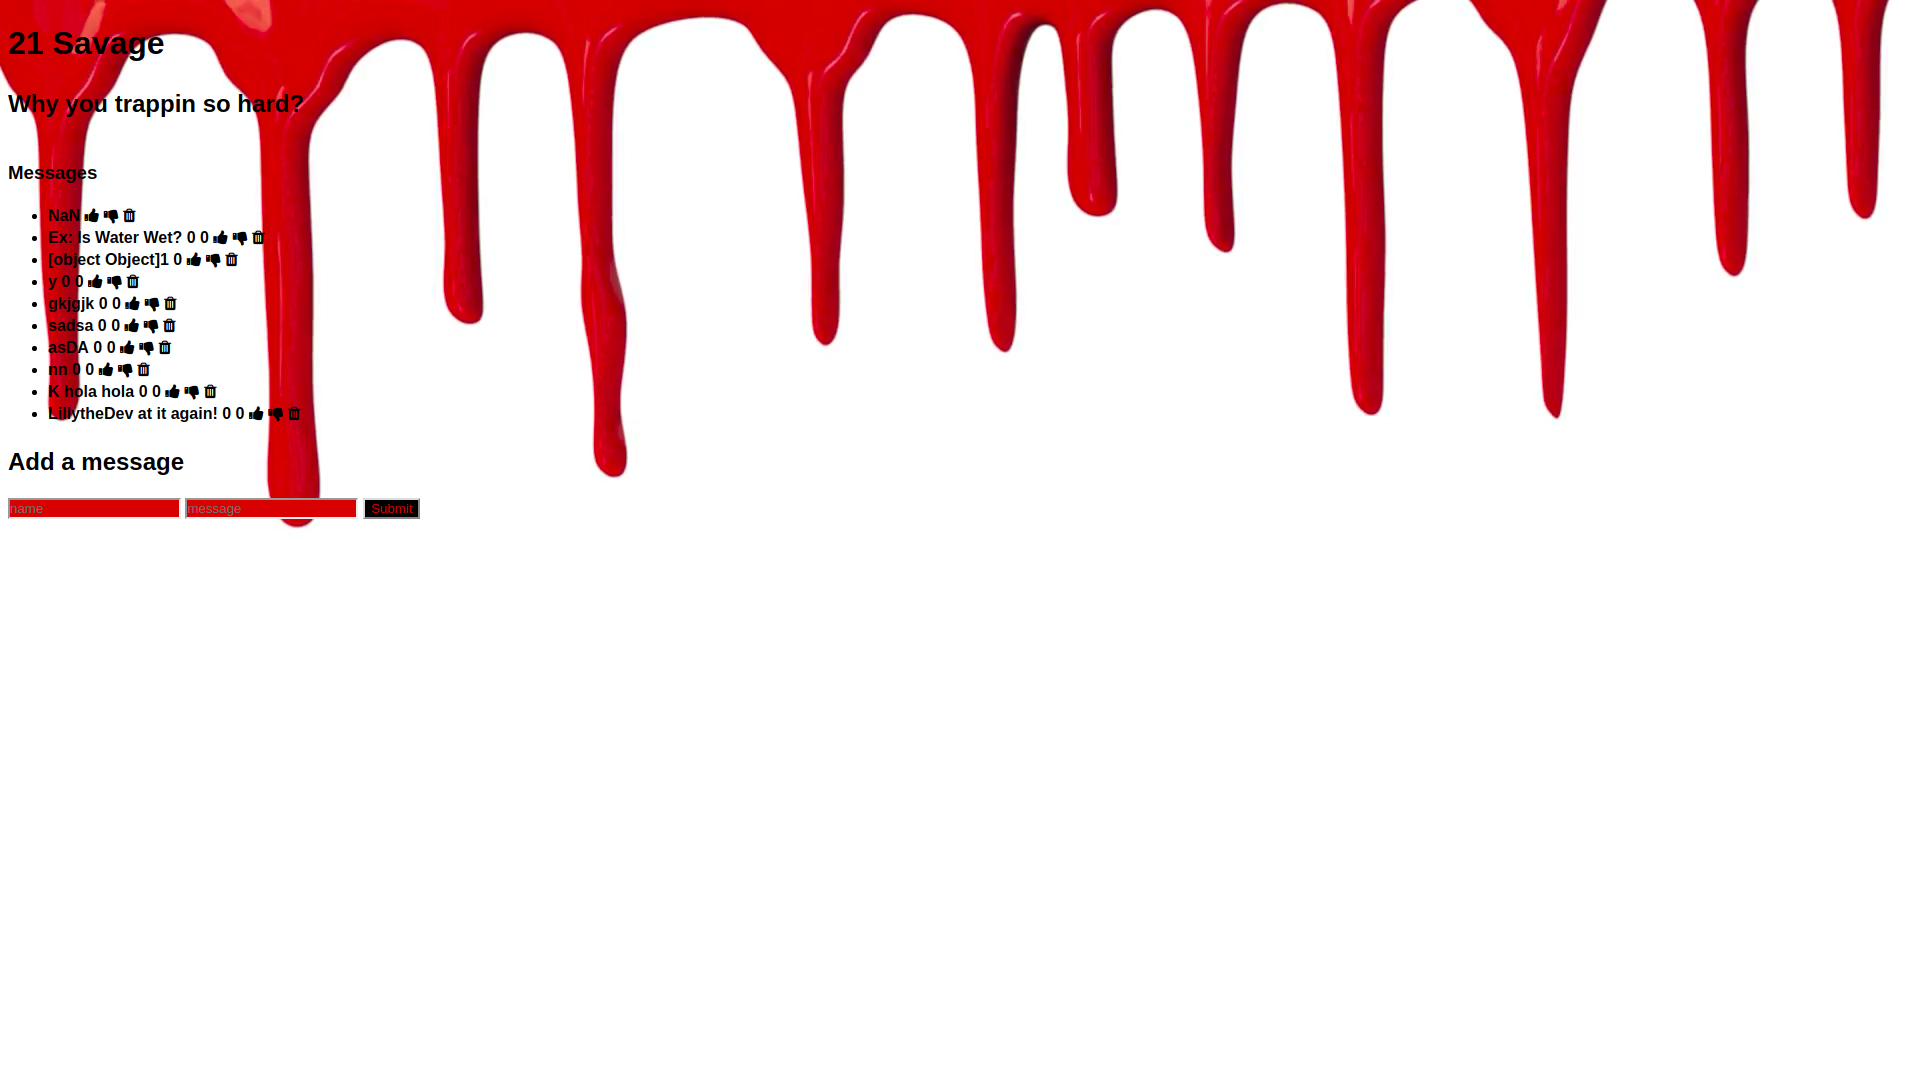
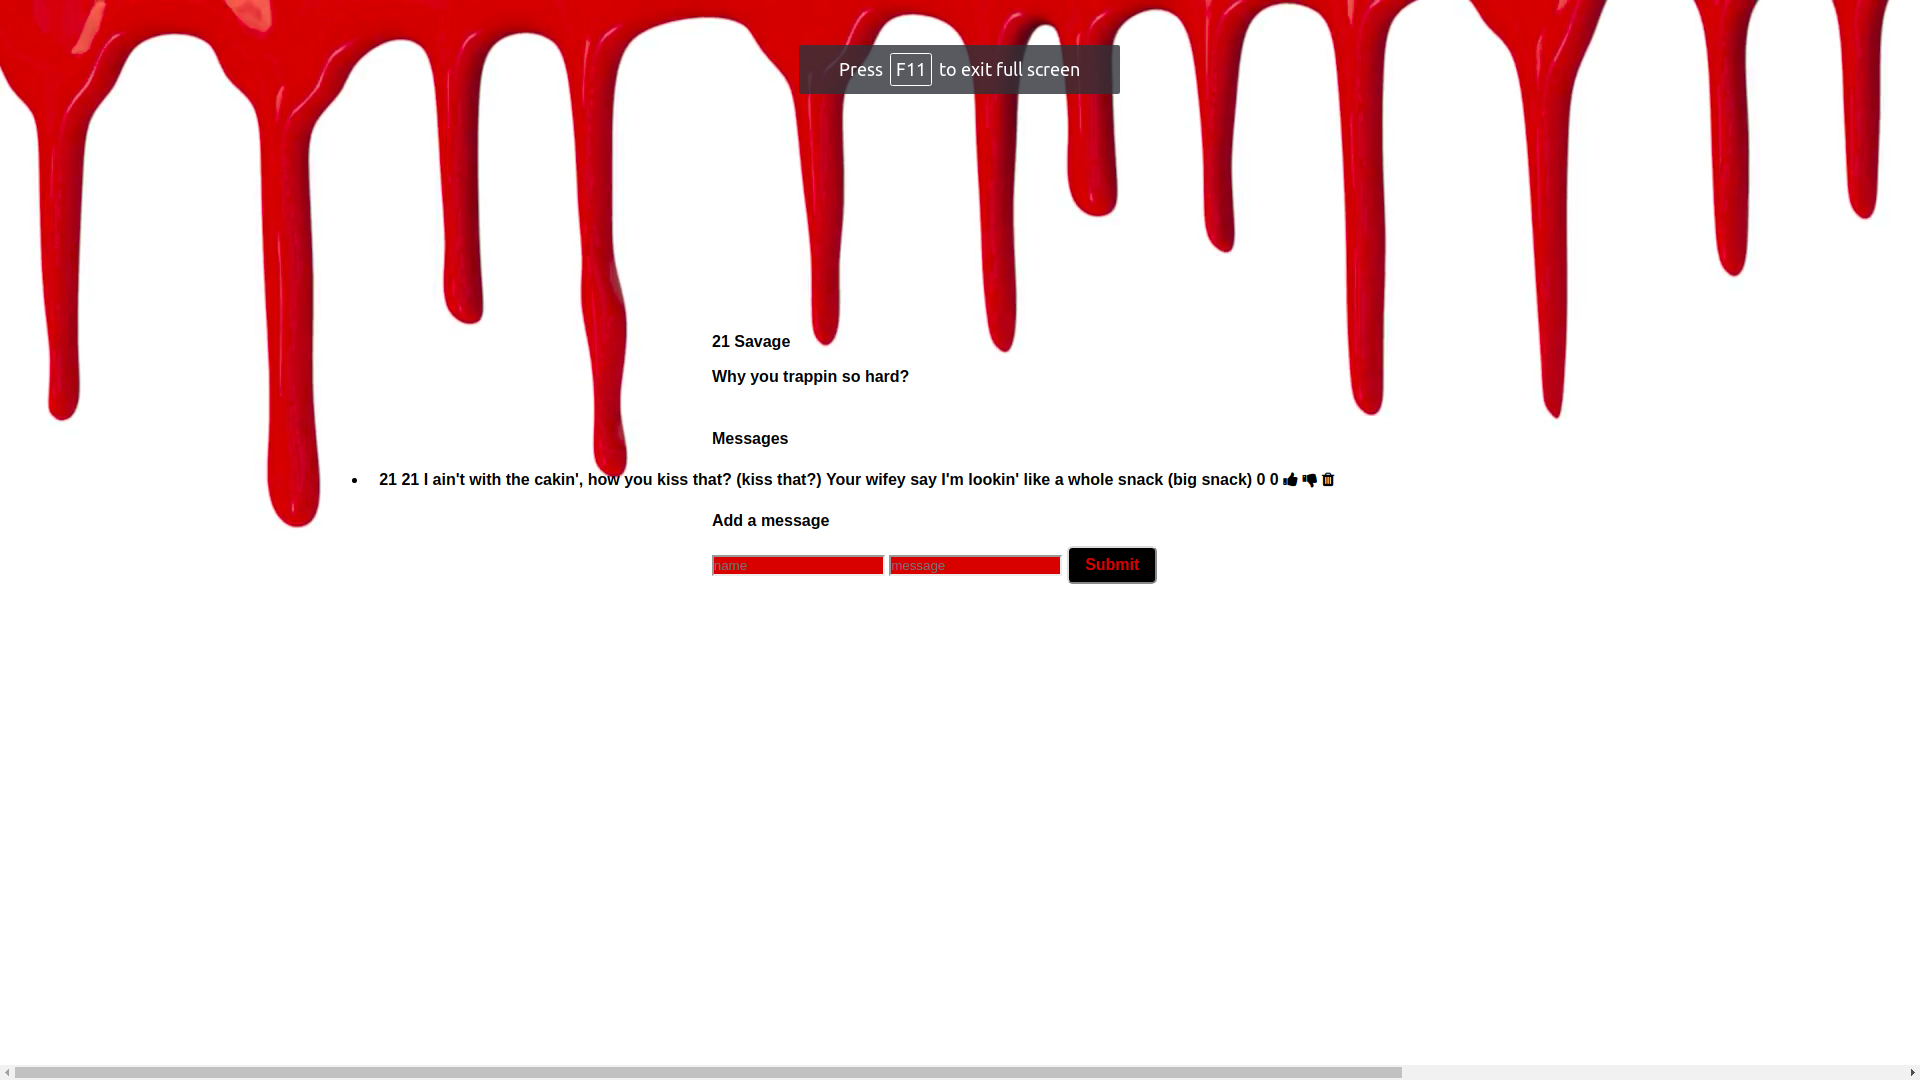
edits

diff --git a/public/styles.css b/public/styles.css
@@ -57,12 +57,11 @@ button:hover {
 h1, h3, h2, form {
   position: relative;
   font-size: 1em;
-  padding: .2em .7em;
   top: 20em;
   left: 44em;
 }
 
-ul li, {
+ul li {
   position: relative;
   font-size: 1em;
   padding: .2em .7em;
